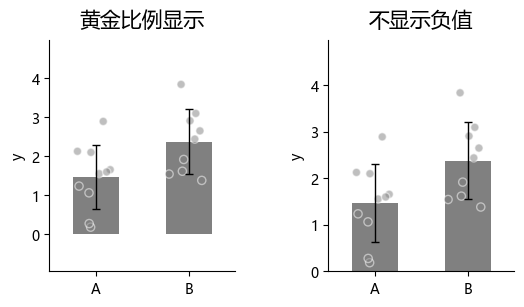
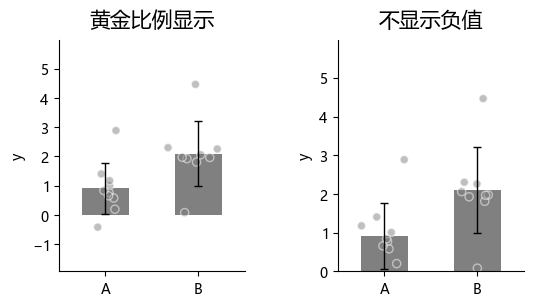
docs(web): update website content

diff --git a/docs/usage/single_group.md b/docs/usage/single_group.md
@@ -504,14 +504,15 @@ plot_one_group_bar_figure(
 
 `plot_one_group_bar_figure` 可快速实现柱间统计比较。当前支持以下统计方法：
 
-1. 独立样本 t 检验（`ttest_ind`）  
-2. 配对样本 t 检验（`ttest_rel`）  
-3. Mann-Whitney U 检验（`mannwhitneyu`）  
-4. 外部统计检验 （`external`）
+1. 独立样本 t 检验（`ttest_ind`）
+2. 配对样本 t 检验（`ttest_rel`）
+3. 单样本t检验（`ttest_1samp`）
+4. Mann-Whitney U 检验（`mannwhitneyu`）
+5. 外部统计检验 （`external`）
 
-> “外部统计检验”（`external`）指用户可使用其他统计软件完成检验，只需将计算好的 p 值传入函数。
+> 
 
-使用时需先通过 `statistic` 选项启用统计功能，并在 `test_method` 中指定方法名；外部统计检验还需通过 `p_list` 额外传入对应的 p 值列表。
+使用时需先通过 `statistic` 选项启用统计功能，并在 `test_method` 中指定方法名。
 
 
 
@@ -530,6 +531,8 @@ data2 = np.random.normal(4, 1, 31)
 data3 = np.random.normal(5, 1, 31)
 data4 = np.random.normal(2, 1, 9)
 data5 = np.random.normal(4, 1, 10)
+data6 = np.random.normal(0, 1, 20)
+data7 = np.random.normal(1, 1, 20)
 
 fig, axes = plt.subplots(2, 2, figsize=(6, 6))
 fig.subplots_adjust(wspace=0.5, hspace=0.5)
@@ -554,25 +557,25 @@ plot_one_group_bar_figure(
     test_method="ttest_rel"
 )
 plot_one_group_bar_figure(
-    [data4, data5],
+    [data6, data7],
     ax=axes[1,0],
+    labels_name=["A", "B"],
+    y_label_name="y",
+    title_name="单样本t检验",
+    title_fontsize=15,
+    statistic=True,
+    test_method="ttest_1samp",
+    popmean=0,
+)
+plot_one_group_bar_figure(
+    [data4, data5],
+    ax=axes[1,1],
     labels_name=["A", "B"],
     y_label_name="y",
     title_name="Mann-Whitney U检验",
     title_fontsize=15,
     statistic=True, 
     test_method="mannwhitneyu"
-)
-plot_one_group_bar_figure(
-    [data1, data2],
-    ax=axes[1,1],
-    labels_name=["A", "B"],
-    y_label_name="y",
-    title_name="外部统计检验",
-    title_fontsize=15,
-    statistic=True, 
-    test_method="external",
-    p_list=[0.01],
 )
 ```
 
@@ -581,6 +584,9 @@ plot_one_group_bar_figure(
 ![png](single_group_files/single_group_34_0.png)
     
 
+
+“外部统计检验”（`external`）指用户可使用其他统计软件完成检验，只需将计算好的 p 值传入函数。
+外部统计检验需通过 `p_list` 额外传入对应的 p 值列表。
 
 !!! note
     当使用“外部统计检验”且有多个柱子需要比较时，传入的 *p* 值应遵循以下顺序：
@@ -622,7 +628,7 @@ plot_one_group_bar_figure(
 
 
     
-![png](single_group_files/single_group_36_0.png)
+![png](single_group_files/single_group_37_0.png)
     
 
 
@@ -673,6 +679,6 @@ plot_one_group_violin_figure(
 
 
     
-![png](single_group_files/single_group_39_0.png)
+![png](single_group_files/single_group_40_0.png)
     
 
